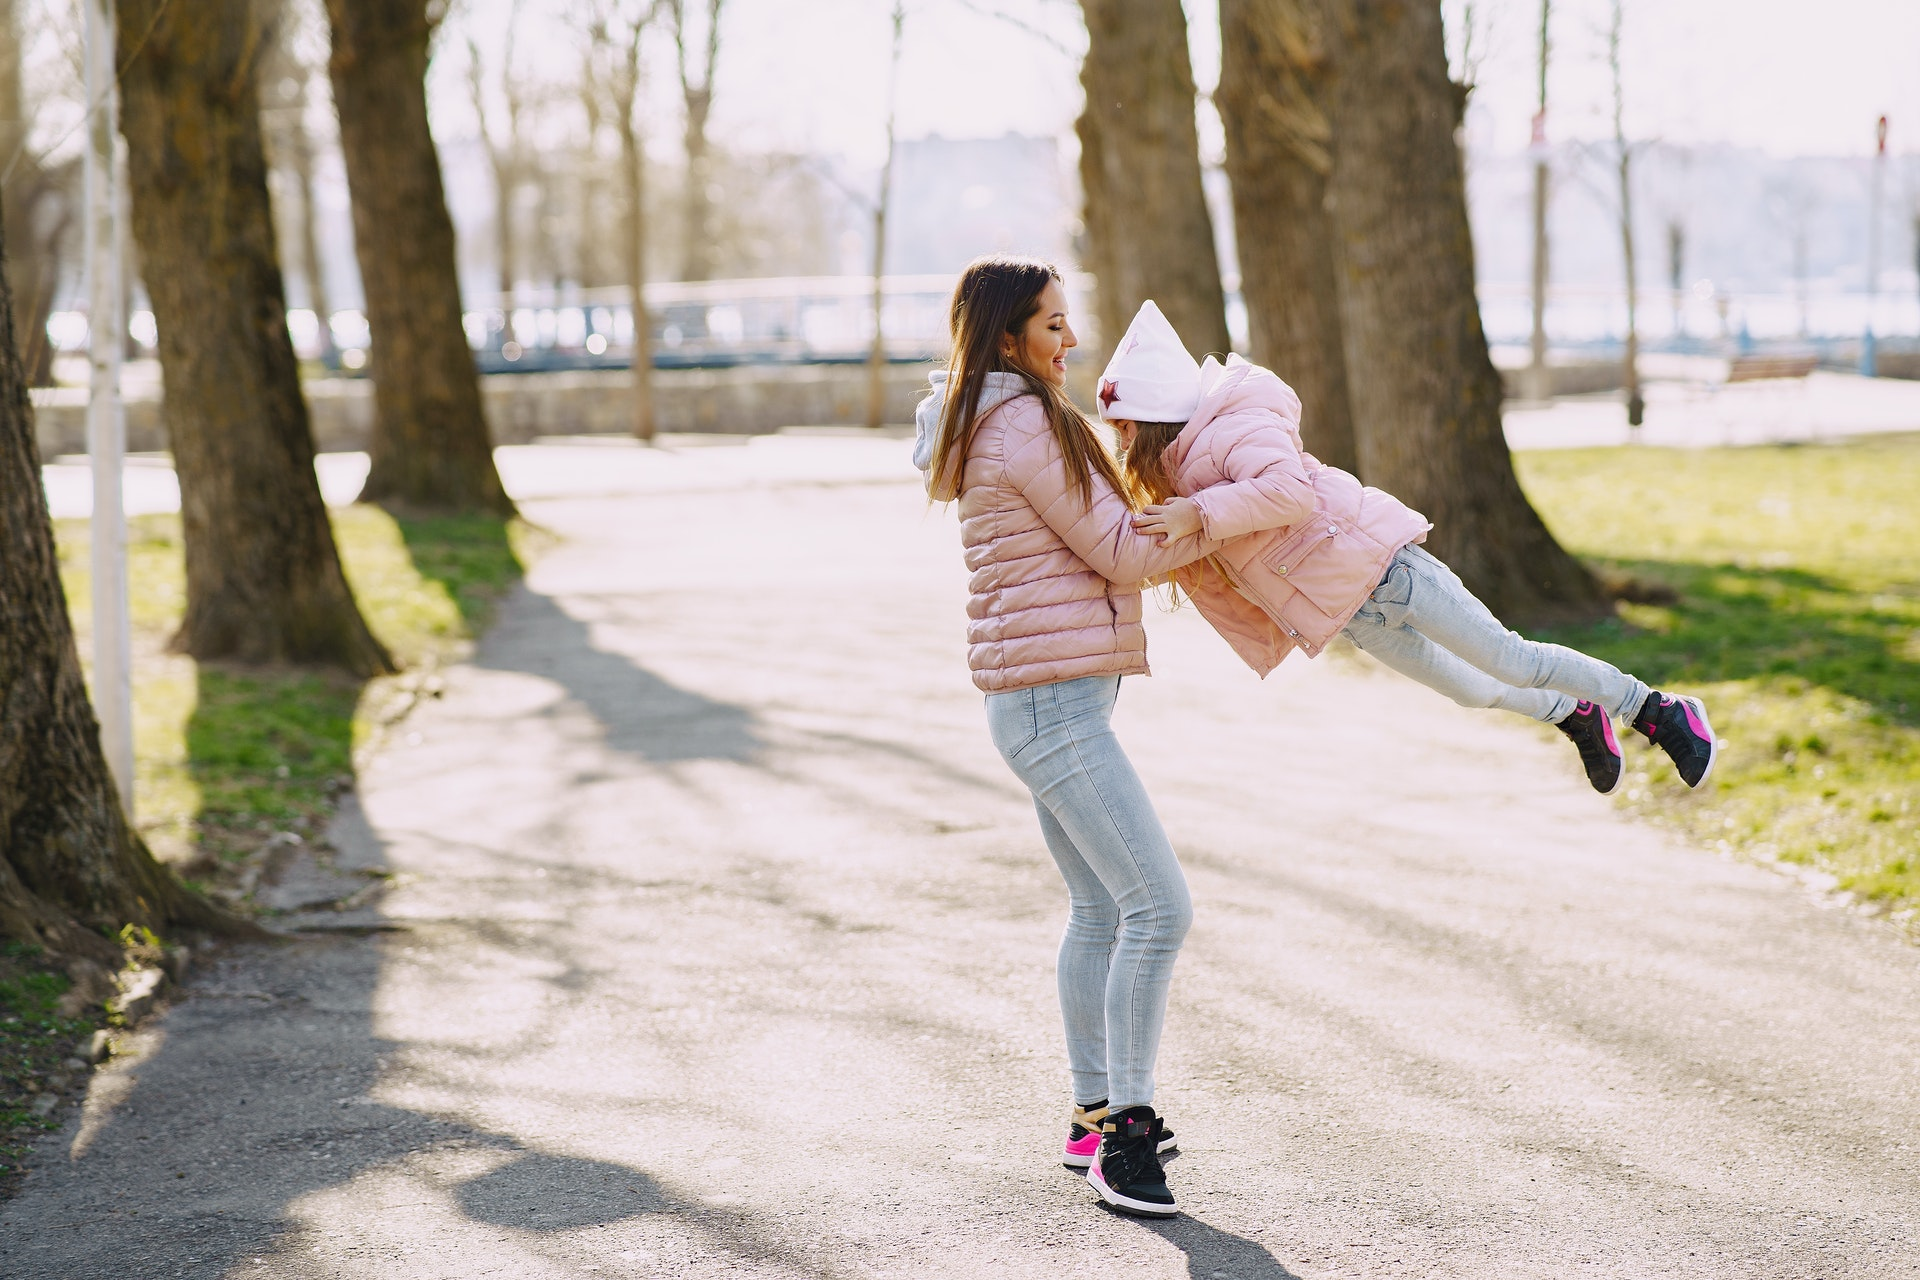
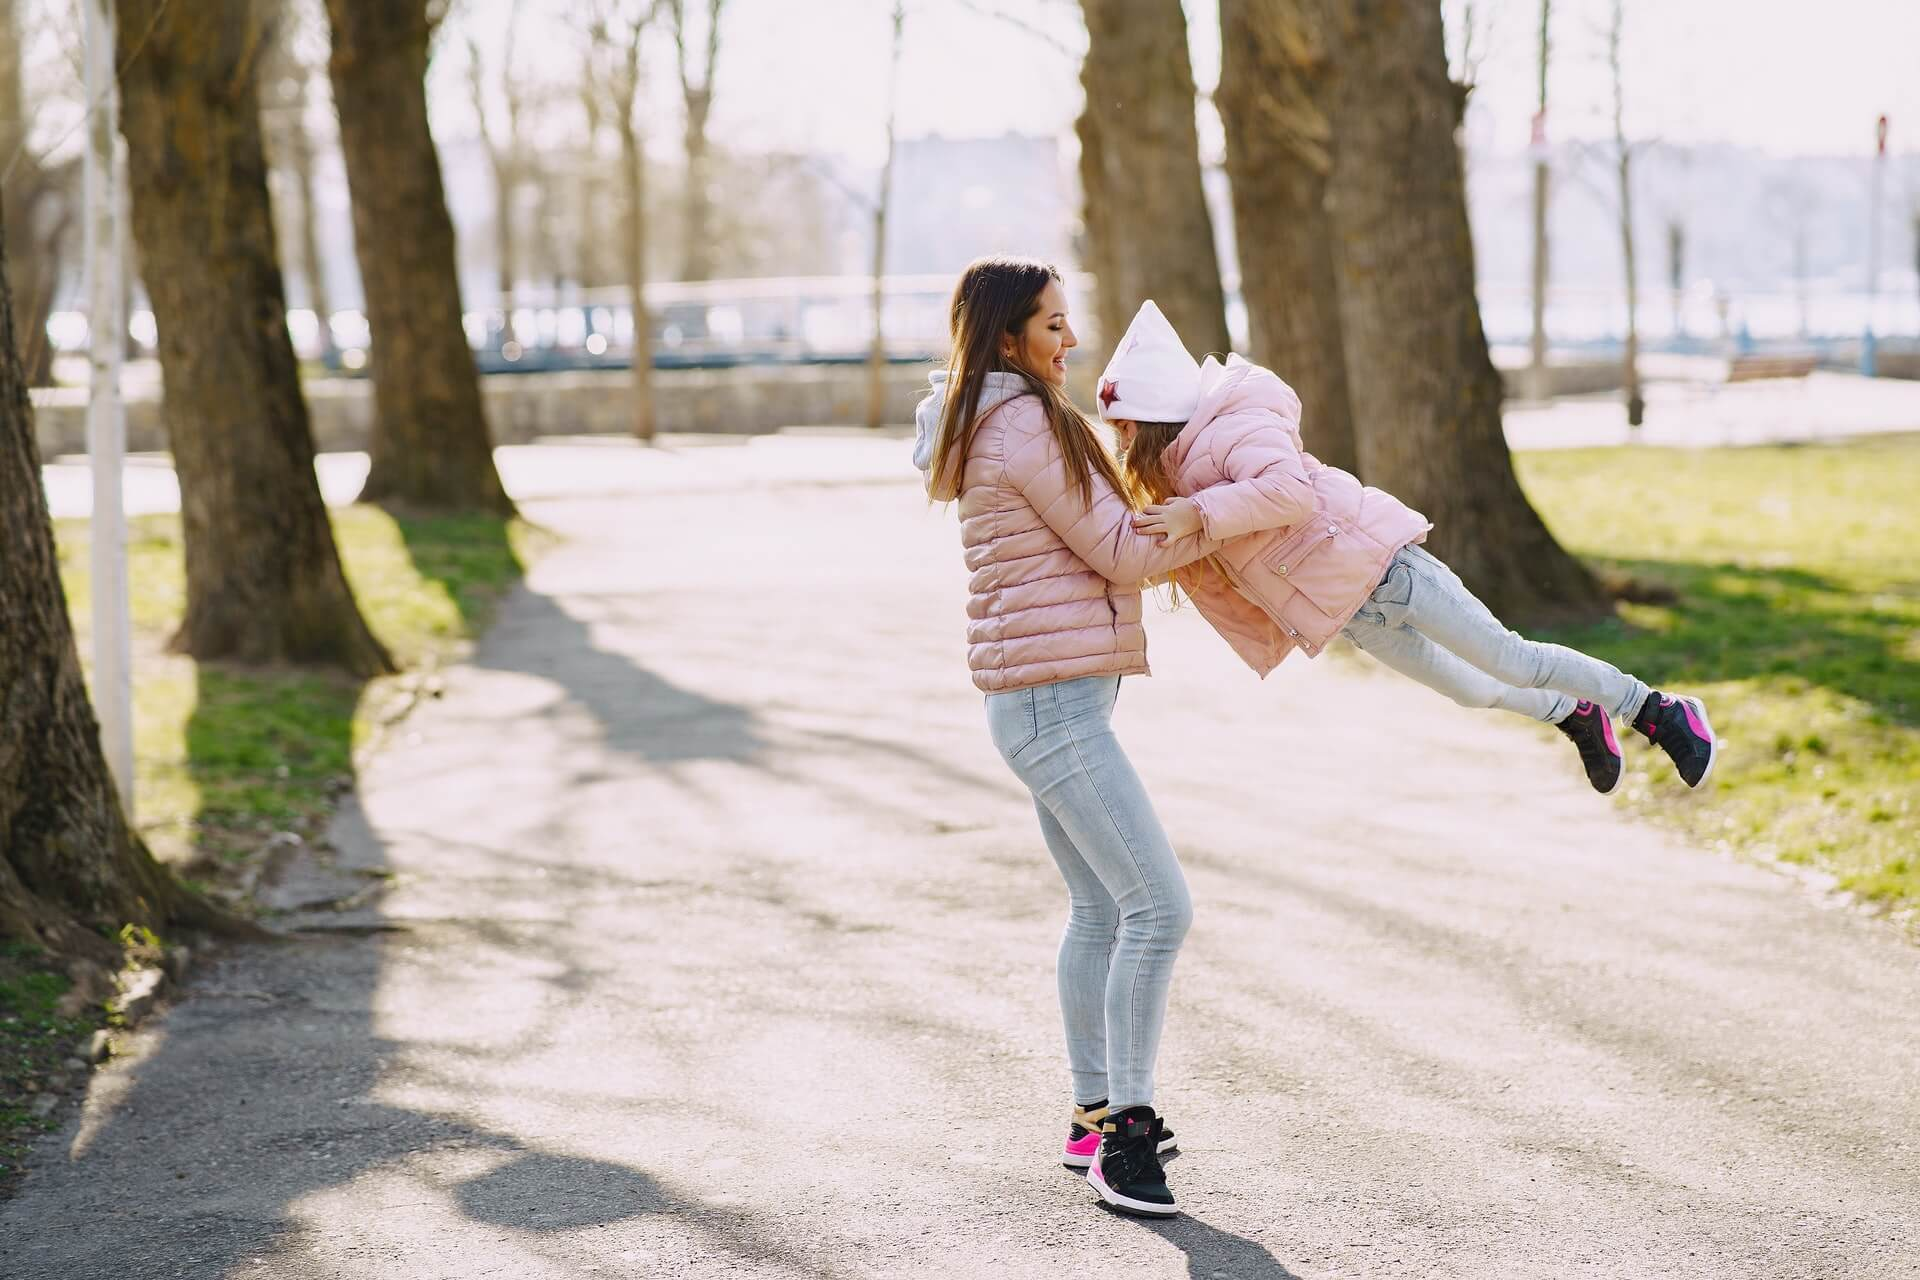
refactor(house-page): fill house presentation with content and buttons for booking and brochure
House page presentation details and button to booking modal form and brochure download. Compress
existing images as well.

Changed region(s): [[0.5625, 0.9375, 0.5938, 0.9688], [0.4062, 0.9688, 0.4375, 1.0]]

diff --git a/lugmore.html b/lugmore.html
@@ -65,17 +65,25 @@
                         <img src="https://via.placeholder.com/735.jpg?text=Lugmore+House"
                             class="img-presentation rounded" alt="Lugmore House">
                     </div>
-                    <div class="col-lg-8">
-                        <p class="lead">
-                            Lorem ipsum dolor sit amet consectetur adipisicing elit. Sint quidem error corrupti,
-                            exercitationem aspernatur eveniet cum rerum, quae eaque officia, quas obcaecati laborum
-                            esse. Rerum modi doloribus dolorem inventore ut?
-                        </p>
-                        <ul>
-                            <li>Large 3 bedroom semi-detached</li>
-                            <li>Approx 1,200 sq.ft. / 111.5 m²</li>
-                            <li><img src="assets/images/ber-a3.png" width="100" alt="BER A3 rating"></li>
-                        </ul>
+                    <div class="col-lg-8 d-flex align-items-start flex-column bd-highlight mb-3">
+                        <div class="mb-auto p-2">
+                            <ul>
+                                <li>Large 3 bedroom semi-detached</li>
+                                <li>Approx 1,200 sq.ft. / 111.5 m²</li>
+                                <li><img src="assets/images/ber-a3.png" width="100" alt="BER A3 rating"></li>
+                            </ul>
+                        </div>
+                        <div class="p-2 w-100">
+                            <button type="button" class="btn btn-block btn-cta" data-toggle="modal"
+                                data-target="#cta-form">
+                                <i class="fas fa-clock"></i> Book a viewing now!
+                            </button>
+                        </div>
+                        <div class="p-2 w-100">
+                            <button type="button" class="btn btn-block btn-house">
+                                <i class="fas fa-file-alt"></i> Download Brochure
+                            </button>
+                        </div>
                     </div>
                 </div>
             </div>
@@ -256,10 +264,6 @@
                                 <li class="list-group-item">Approx 1,951 sq.ft. / 181 m²</li>
                             </ul>
                             <div class="card-body">
-                                <p class="card-text">Some quick example text to build on the card title and make up the
-                                    bulk
-                                    of the card's
-                                    content.</p>
                                 <a href="montpelier.html" class="btn btn-block btn-house"><i class="fas fa-eye"></i>
                                     View Details</a>
                             </div>
@@ -280,10 +284,6 @@
                                 <li class="list-group-item">Approx 1,394 sq.ft. / 129 m²</li>
                             </ul>
                             <div class="card-body">
-                                <p class="card-text">Some quick example text to build on the card title and make up the
-                                    bulk
-                                    of the card's
-                                    content.</p>
                                 <a href="three-rock.html" class="btn btn-block btn-house"><i class="fas fa-eye"></i>
                                     View Details</a>
                             </div>

diff --git a/montpelier.html b/montpelier.html
@@ -65,17 +65,25 @@
                         <img src="https://via.placeholder.com/735.jpg?text=Monpelier+House"
                             class="img-presentation rounded" alt="Montpelier House">
                     </div>
-                    <div class="col-lg-8">
-                        <p class="lead">
-                            Lorem ipsum dolor sit amet consectetur adipisicing elit. Quae molestias voluptates itaque
-                            dignissimos? Aut minima id eveniet, architecto vitae quae laboriosam porro beatae eaque
-                            possimus dolor illum voluptatibus non quia.
-                        </p>
-                        <ul>
-                            <li>Large 4 bedroom detached</li>
-                            <li>Approx 1,951 sq.ft. / 181 m²</li>
-                            <li><img src="assets/images/ber-a2.png" width="100" alt="BER A2 rating"></li>
-                        </ul>
+                    <div class="col-lg-8 d-flex align-items-start flex-column bd-highlight mb-3">
+                        <div class="mb-auto p-2">
+                            <ul>
+                                <li>Large 4 bedroom detached</li>
+                                <li>Approx 1,951 sq.ft. / 181 m²</li>
+                                <li><img src="assets/images/ber-a2.png" width="100" alt="BER A2 rating"></li>
+                            </ul>
+                        </div>
+                        <div class="p-2 w-100">
+                            <button type="button" class="btn btn-block btn-cta" data-toggle="modal"
+                                data-target="#cta-form">
+                                <i class="fas fa-clock"></i> Book a viewing now!
+                            </button>
+                        </div>
+                        <div class="p-2 w-100">
+                            <button type="button" class="btn btn-block btn-house">
+                                <i class="fas fa-file-alt"></i> Download Brochure
+                            </button>
+                        </div>
                     </div>
                 </div>
             </div>
@@ -262,10 +270,6 @@
                                 <li class="list-group-item">Approx 1,394 sq.ft. / 129 m²</li>
                             </ul>
                             <div class="card-body">
-                                <p class="card-text">Some quick example text to build on the card title and make up the
-                                    bulk
-                                    of the card's
-                                    content.</p>
                                 <a href="three-rock.html" class="btn btn-block btn-house"><i class="fas fa-eye"></i>
                                     View Details</a>
                             </div>
@@ -286,10 +290,6 @@
                                 <li class="list-group-item">Approx 1,200 sq.ft. / 111.5 m²</li>
                             </ul>
                             <div class="card-body">
-                                <p class="card-text">Some quick example text to build on the card title and make up the
-                                    bulk
-                                    of the card's
-                                    content.</p>
                                 <a href="lugmore.html" class="btn btn-block btn-house"><i class="fas fa-eye"></i> View
                                     Details</a>
                             </div>

diff --git a/three-rock.html b/three-rock.html
@@ -65,17 +65,25 @@
                         <img src="https://via.placeholder.com/735.jpg?text=Three+Rock+House"
                             class="img-presentation rounded" alt="Three Rock House">
                     </div>
-                    <div class="col-lg-8">
-                        <p class="lead">
-                            Lorem, ipsum dolor sit amet consectetur adipisicing elit. Expedita, doloribus doloremque
-                            temporibus nam vitae laboriosam quidem repudiandae fuga quia quibusdam sint numquam fugiat
-                            iure sequi soluta architecto laborum dicta illo.
-                        </p>
-                        <ul>
-                            <li>3 bedroom Detached</li>
-                            <li>Approx 1,394 sq.ft. / 129 m²</li>
-                            <li><img src="assets/images/ber-a3.png" width="100" alt="BER A3 rating"></li>
-                        </ul>
+                    <div class="col-lg-8 d-flex align-items-start flex-column bd-highlight mb-3">
+                        <div class="mb-auto p-2">
+                            <ul>
+                                <li>3 bedroom Detached</li>
+                                <li>Approx 1,394 sq.ft. / 129 m²</li>
+                                <li><img src="assets/images/ber-a3.png" width="100" alt="BER A3 rating"></li>
+                            </ul>
+                        </div>
+                        <div class="p-2 w-100">
+                            <button type="button" class="btn btn-block btn-cta" data-toggle="modal"
+                                data-target="#cta-form">
+                                <i class="fas fa-clock"></i> Book a viewing now!
+                            </button>
+                        </div>
+                        <div class="p-2 w-100">
+                            <button type="button" class="btn btn-block btn-house">
+                                <i class="fas fa-file-alt"></i> Download Brochure
+                            </button>
+                        </div>
                     </div>
                 </div>
             </div>
@@ -256,10 +264,6 @@
                                 <li class="list-group-item">Approx 1,951 sq.ft. / 181 m²</li>
                             </ul>
                             <div class="card-body">
-                                <p class="card-text">Some quick example text to build on the card title and make up the
-                                    bulk
-                                    of the card's
-                                    content.</p>
                                 <a href="montpelier.html" class="btn btn-block btn-house"><i class="fas fa-eye"></i>
                                     View Details</a>
                             </div>
@@ -280,10 +284,6 @@
                                 <li class="list-group-item">Approx 1,200 sq.ft. / 111.5 m²</li>
                             </ul>
                             <div class="card-body">
-                                <p class="card-text">Some quick example text to build on the card title and make up the
-                                    bulk
-                                    of the card's
-                                    content.</p>
                                 <a href="lugmore.html" class="btn btn-block btn-house"><i class="fas fa-eye"></i> View
                                     Details</a>
                             </div>

diff --git a/index.html b/index.html
@@ -181,10 +181,6 @@
                                 <li class="list-group-item">Approx 1,951 sq.ft. / 181 m²</li>
                             </ul>
                             <div class="card-body">
-                                <p class="card-text">Some quick example text to build on the card title and make up the
-                                    bulk
-                                    of the card's
-                                    content.</p>
                                 <a href="montpelier.html" class="btn btn-block btn-house"><i class="fas fa-eye"></i>
                                     View Details</a>
                             </div>
@@ -205,10 +201,6 @@
                                 <li class="list-group-item">Approx 1,394 sq.ft. / 129 m²</li>
                             </ul>
                             <div class="card-body">
-                                <p class="card-text">Some quick example text to build on the card title and make up the
-                                    bulk
-                                    of the card's
-                                    content.</p>
                                 <a href="three-rock.html" class="btn btn-block btn-house"><i class="fas fa-eye"></i>
                                     View Details</a>
                             </div>
@@ -229,10 +221,6 @@
                                 <li class="list-group-item">Approx 1,200 sq.ft. / 111.5 m²</li>
                             </ul>
                             <div class="card-body">
-                                <p class="card-text">Some quick example text to build on the card title and make up the
-                                    bulk
-                                    of the card's
-                                    content.</p>
                                 <a href="lugmore.html" class="btn btn-block btn-house"><i class="fas fa-eye"></i> View
                                     Details</a>
                             </div>
